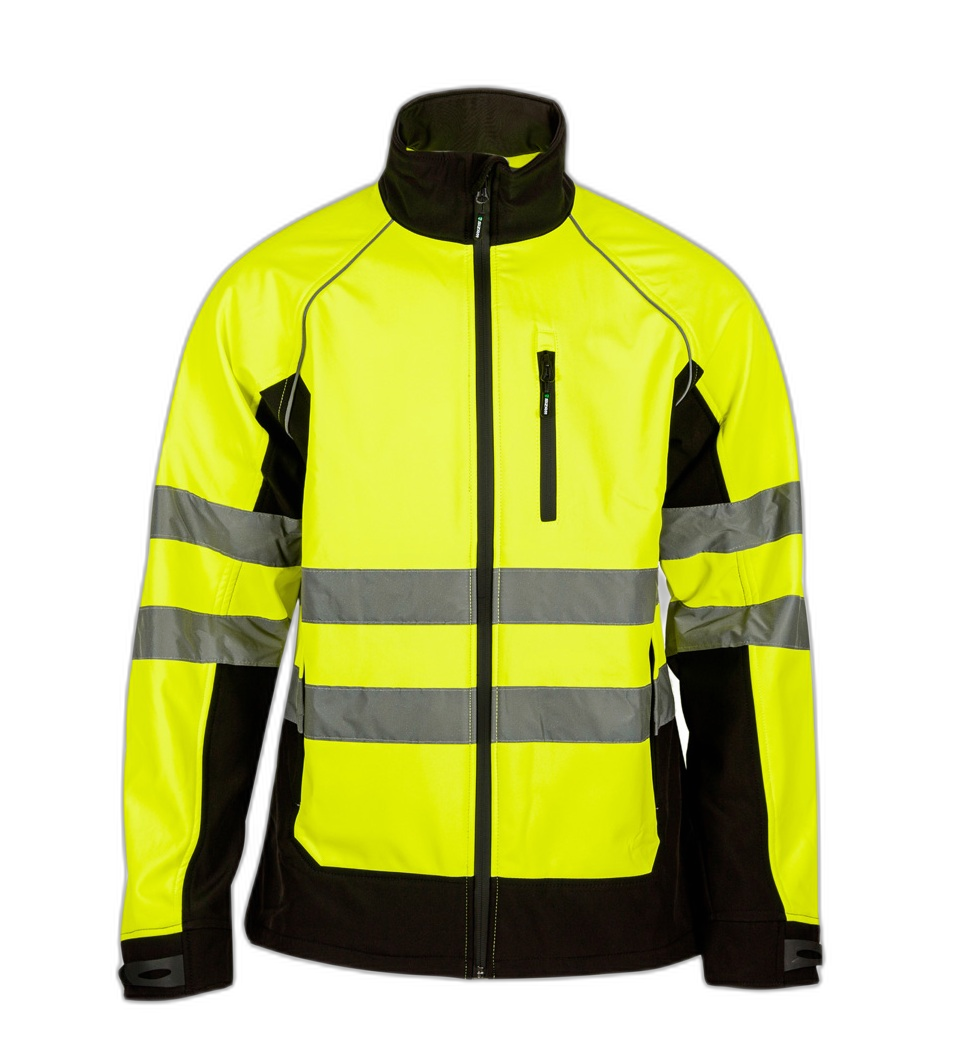
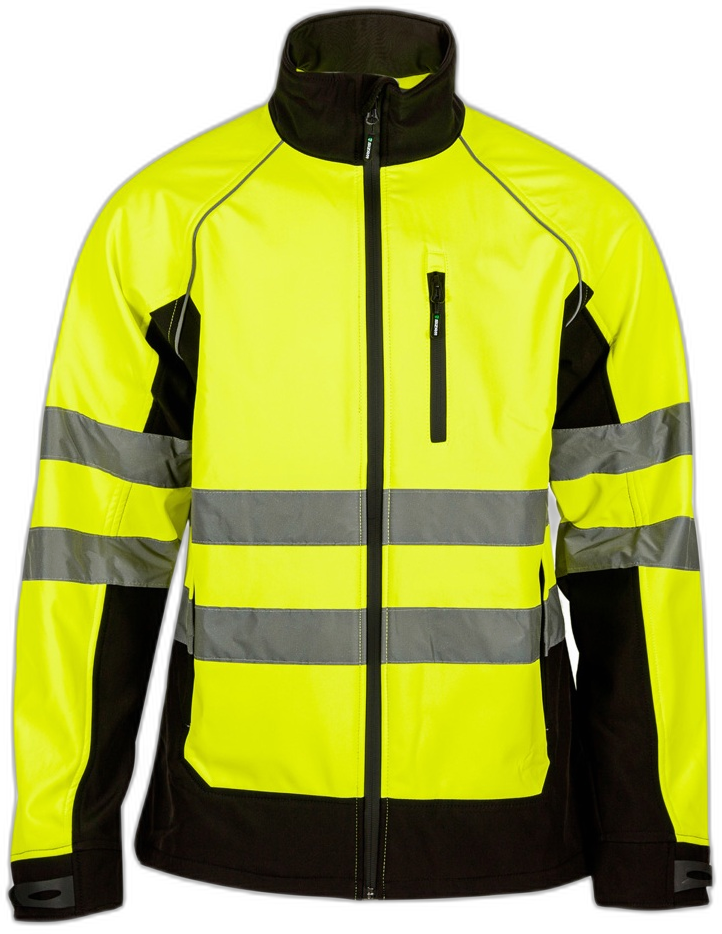
Meeting minutes 2025 11 15

diff --git a/Start/remover_resize/remover_resize.py b/Start/remover_resize/remover_resize.py
@@ -7,18 +7,64 @@ from io import BytesIO
 from PIL import Image
 import argparse
 
-def downscale_to_max_edge(image_bytes: bytes, max_edge: int = 1536) -> bytes:
-    """
-    Если изображение больше max_edge по длинной стороне — уменьшаем с сохранением пропорций.
-    Если меньше/равно — возвращаем как есть. Сохраняем без потерь (PNG).
-    """
-    im = Image.open(BytesIO(image_bytes))
-    im.load()  # гарантированно читаем в память (важно для некоторых форматов/стримов)
 
+def crop_to_content(im: Image.Image, alpha_threshold: int = 0) -> Image.Image:
+    """
+    Обрезаем изображение по непрозрачным пикселям (по альфе).
+    Если альфа нет — возвращаем как есть.
+    """
+    # Приводим к формату с альфой, если возможно
+    if im.mode == "P" and "transparency" in im.info:
+        im = im.convert("RGBA")
+
+    if im.mode not in ("RGBA", "LA"):
+        # Нет альфы — обрезать по прозрачности нечем
+        return im
+
+    alpha = im.split()[-1]  # альфа-канал
+
+    # Делаем бинарную маску: всё, что > threshold, считаем "контентом"
+    mask = alpha.point(lambda px: 255 if px > alpha_threshold else 0)
+    bbox = mask.getbbox()
+
+    if bbox is None:
+        # Ничего не нашли (всё прозрачно?) — возвращаем как есть
+        return im
+
+    return im.crop(bbox)
+
+
+def flatten_alpha(im: Image.Image, bg_color=(255, 255, 255)) -> Image.Image:
+    """
+    Убираем альфа-канал:
+    - если есть прозрачность, композитим на сплошной фон bg_color
+    - возвращаем обычное RGB
+    """
+    if im.mode == "P" and "transparency" in im.info:
+        im = im.convert("RGBA")
+
+    if im.mode in ("RGBA", "LA"):
+        im = im.convert("RGBA")
+        alpha = im.split()[-1]
+        bg = Image.new("RGB", im.size, bg_color)
+        bg.paste(im, mask=alpha)
+        return bg
+
+    if im.mode != "RGB":
+        im = im.convert("RGB")
+
+    return im
+
+
+def downscale_pil_to_max_edge(im: Image.Image, max_edge: int = 1536) -> Image.Image:
+    """
+    Даунскейл PIL-изображения до max_edge по длинной стороне.
+    Если изображение меньше/равно — возвращаем как есть.
+    """
     w, h = im.size
     longer = max(w, h)
     if longer <= max_edge:
-        return image_bytes  # ничего не делаем, чтобы не трогать качество/метаданные
+        return im
 
     if w >= h:
         new_w = max_edge
@@ -27,46 +73,61 @@ def downscale_to_max_edge(image_bytes: bytes, max_edge: int = 1536) -> bytes:
         new_h = max_edge
         new_w = int(w * (max_edge / h))
 
-    im = im.resize((new_w, new_h), resample=Image.LANCZOS)
+    return im.resize((new_w, new_h), resample=Image.LANCZOS)
 
-    buf = BytesIO()
-    # PNG: без потерь, оптимизация по размеру файла
-    im.save(buf, format="PNG", optimize=True, compress_level=9)
-    return buf.getvalue()
 
 def remove_bg(input_path: str, max_edge: int = 1536) -> str:
     """
-    Удаляет фон у изображения: предварительно даунскейлит до max_edge (если нужно),
-    сохраняет как PNG в results/<stem>_no_bg.png. Возвращает путь к сохранённому файлу.
+    Пайплайн:
+    1) читаем исходное изображение
+    2) удаляем фон (backgroundremover.remove) -> PNG с альфой
+    3) обрезаем по непрозрачным пикселям (crop_to_content)
+    4) убираем альфу (flatten_alpha)
+    5) даунскейлим (downscale_pil_to_max_edge)
+    6) сохраняем в results/<stem>_no_bg.png
     """
     inp = Path(input_path)
     if not inp.exists():
         raise FileNotFoundError(f"Input not found: {inp}")
 
-    # читаем исходник
+    # 1) читаем исходник
     with open(inp, "rb") as f:
         img_bytes = f.read()
 
-    # мягко сжимаем до логического размера (только даунскейл, без апскейла)
-    resized_bytes = downscale_to_max_edge(img_bytes, max_edge=max_edge)
+    # 2) удаляем фон (на вход подаём bytes)
+    out_png_bytes = remove(img_bytes)
 
-    # удаляем фон (на вход подаём bytes)
-    out_png_bytes = remove(resized_bytes)
+    # 3) открываем результат через PIL
+    im = Image.open(BytesIO(out_png_bytes))
+    im.load()
 
-    # сохраняем результат
+    # обрезаем по альфе, чтобы не было лишнего
+    im = crop_to_content(im, alpha_threshold=0)
+
+    # 4) убираем альфа-канал (делаем обычное RGB)
+    im = flatten_alpha(im, bg_color=(255, 255, 255))  # фон — белый
+
+    # 5) даунскейлим результат
+    im = downscale_pil_to_max_edge(im, max_edge=max_edge)
+
+    # 6) сохраняем результат
     out_dir = Path("results")
     out_dir.mkdir(parents=True, exist_ok=True)
     out_path = out_dir / f"{inp.stem}_no_bg.png"
-    with open(out_path, "wb") as f:
-        f.write(out_png_bytes)
+    im.save(out_path, format="PNG", optimize=True, compress_level=9)
 
     return str(out_path)
 
+
 if __name__ == "__main__":
-    parser = argparse.ArgumentParser(description="Remove background with logical downscale (no quality loss).")
+    parser = argparse.ArgumentParser(description="Remove background, crop, drop alpha, then downscale.")
     parser.add_argument("image", help="Path to input image (jpg/png/webp...)")
-    parser.add_argument("--max-edge", type=int, default=1536,
-                        help="Max size of the long edge in pixels (default: 1536). Only downscales, never upscales.")
+    parser.add_argument(
+        "--max-edge",
+        type=int,
+        default=1536,
+        help="Max size of the long edge in pixels (default: 1536). Only downscales, never upscales.",
+    )
     args = parser.parse_args()
 
     saved_to = remove_bg(args.image, max_edge=args.max_edge)
